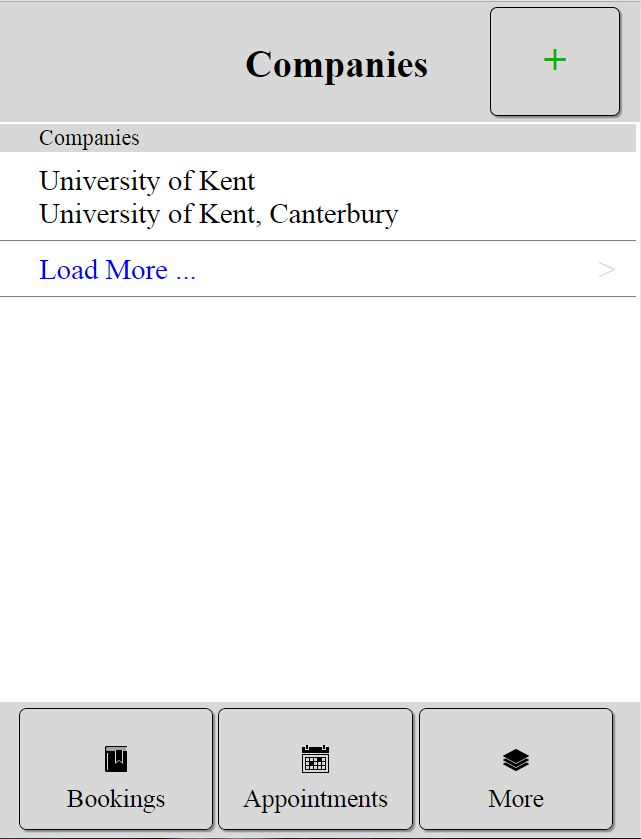
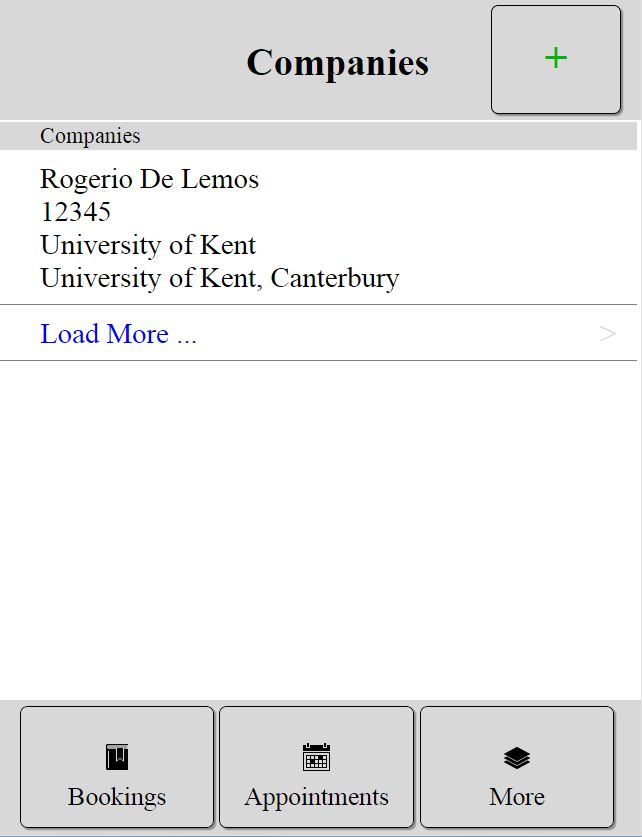
sorry, made it display more info, easier for driver

diff --git a/app/companies.php b/app/companies.php
@@ -34,7 +34,7 @@ require_once("classes/meekrodb.2.3.class.php"); // Refer to http://www.meekro.co
 					}
 					foreach ($results as $row) {
 						echo "<tr>";
-						echo "<td class='field'>".$row['name']."<br />".$row['address']."</td>";
+						echo "<td class='field'>".$row['contact_name']."<br />".$row['phone_number']."<br />".$row['name']."<br />".$row['address']."</td>";
 						echo "</tr>";
 					}
 				?>
